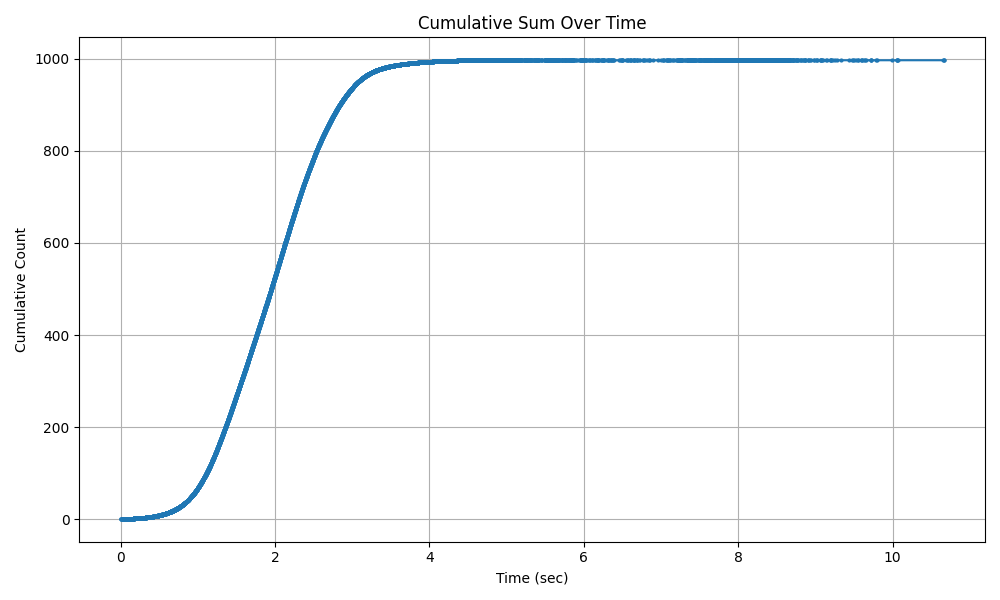
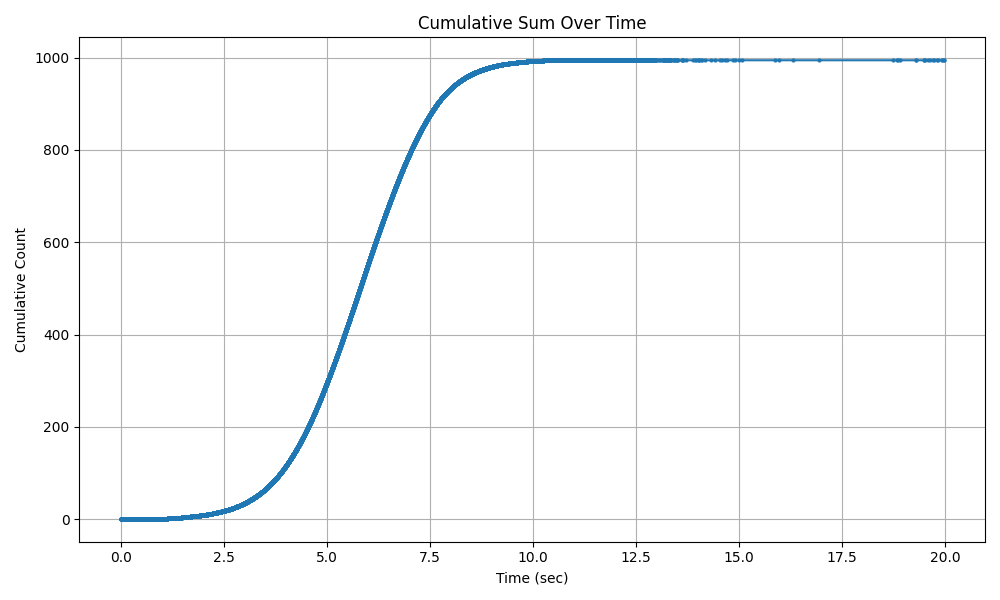
feat: fix netkit

diff --git a/main.go b/main.go
@@ -16,8 +16,9 @@ func main() {
 	sg.SetSeedRandom()
 
 	mu := sync.Mutex{}
-	couter := make(map[string]float64)
-	try := 1000
+	counter := make(map[string]float64)
+	try := 2000
+	networkSize := 1000
 
 	wg := sync.WaitGroup{}
 	wg.Add(try)
@@ -27,16 +28,16 @@ func main() {
 
 			println("Round:", i)
 
-			er := sg.ErdosRenyiGraph(1000, 6.0/1000.0, true)
+			er := sg.ErdosRenyiGraph(networkSize, 6.0/float64(networkSize), true)
 
 			p, err := p2p.GenerateNetwork(
 				er,
 				func() float64 {
-					return float64(p2p.NormalRandom(100, 50))
+					return float64(p2p.NormalRandom(1000, 500))
 				},
 				func() float64 {
-					// return float64(p2p.ParetoRandom(500, 2.0))
-					return float64(p2p.ExponentialRandom(0.002))
+					return float64(p2p.ParetoRandom(500, 2.0))
+					// return float64(p2p.ExponentialRandom(0.002))
 				},
 				&p2p.Config{},
 			)
@@ -56,7 +57,7 @@ func main() {
 				panic(err)
 			}
 
-			time.Sleep(10 * time.Second)
+			time.Sleep(20 * time.Second)
 			cancel()
 
 			ts := p.FirstMessageReceptionTimes("Hello, world!")
@@ -76,16 +77,31 @@ func main() {
 
 				// println(secStr)
 				mu.Lock()
-				couter[secStr] += 1.0 / float64(try)
+				counter[secStr] += 1.0 / float64(try)
 				mu.Unlock()
 			}
+
+			// if i == 0 {
+			// 	println("Sample Data")
+
+			// 	for j := 0; j < int(len(p.PeerIDs())); j++ {
+
+			// 		info, err := p.MessageInfo(p.PeerIDs()[j], "Hello, world!")
+
+			// 		if err != nil {
+			// 			panic(err)
+			// 		}
+
+			// 		fmt.Printf("%v\n", info)
+			// 	}
+			// }
 		}()
 	}
 
 	wg.Wait()
 
 	fmt.Println("Time(sec)\tCount")
-	for secStr, count := range couter {
+	for secStr, count := range counter {
 		fmt.Printf("%s\t\t%.2f\n", secStr, count)
 	}
 }
